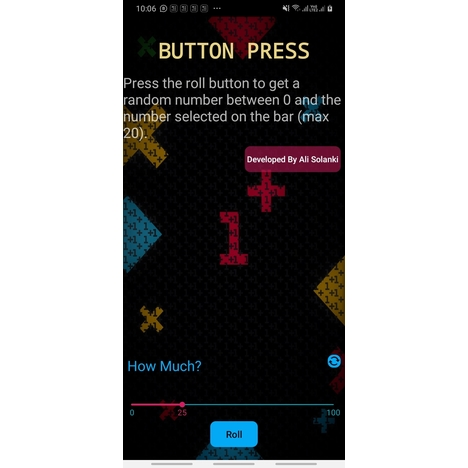
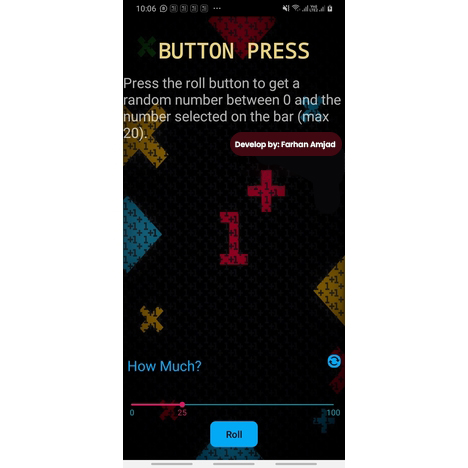
Portfolio

Changed region(s): [[0.4786, 0.2692, 0.7479, 0.3889]]

diff --git a/index.html b/index.html
@@ -14,36 +14,33 @@
     <title>Farhan Portfolio</title>
     <meta
       name="description"
-      content="Ali Solanki is a Developer cum YouTuber and is a B.Tech student at KJ Somaiya College Of Engineering"
+      content="Farhan is a Developer cum YouTuber and is a B.Tech student at CUST Engineering Student"
     />
-    <meta name="author" content="Mohd. Ali Solanki" />
+    <meta name="author" content="Farhan Amjad" />
 
     <meta
       name="keywords"
-      content="ali, solanki, ali solanki, mumbai, developer, web developer, android developer"
+      content="Farhan, Amjad, Farrooqi, Rawalpindi, developer, web developer, android developer"
     />
-    <meta name="subject" content="Ali Solanki Portfolio" />
-    <meta name="copyright" content="Ali Solanki" />
+    <meta name="subject" content="Farhan Portfolio" />
+    <meta name="copyright" content="Farhan" />
     <meta name="language" content="EN" />
     <meta name="robots" content="index, follow" />
     <meta name="revised" content="Thursday, December 12th, 2019, 1:04 am" />
-    <meta name="abstract" content="ali solanki" />
-    <meta name="topic" content="ali solanki portfolio" />
+    <meta name="abstract" content="Farhan" />
+    <meta name="topic" content="Farhan" />
     <meta
       name="summary"
-      content="This is Ali Solanki's Portfolio Website who is a Developer and a YouTuber."
+      content="This is Farhan Portfolio Website who is a Developer and a YouTuber."
     />
     <meta name="Classification" content="Business" />
-    <meta name="author" content="ali solanki, alisolanki123@gmail.com" />
-    <meta name="designer" content="ali solanki" />
-    <meta name="copyright" content="ali solanki" />
-    <meta name="reply-to" content="alisolanki123@gmail.com" />
-    <meta name="owner" content="ali solanki" />
-    <meta name="url" content="https://alisolanki.github.io/Portfolio/" />
-    <meta
-      name="identifier-URL"
-      content="https://alisolanki.github.io/Portfolio/"
-    />
+    <meta name="author" content="Farhan, farhanamjad986@gmail.com" />
+    <meta name="designer" content="Farhan" />
+    <meta name="copyright" content="Farhan" />
+    <meta name="reply-to" content="farhanamjad986@gmail.com" />
+    <meta name="owner" content="Farhan" />
+    <meta name="url" content="https://github.com/farhanamjad-max" />
+    <meta name="identifier-URL" content="https://github.com/farhanamjad-max" />
     <meta name="directory" content="submission" />
     <meta name="category" content="Business | Portfolio" />
     <meta name="coverage" content="Worldwide" />
@@ -129,7 +126,7 @@
       <div class="intro-content">
         <div class="row">
           <div class="col-twelve">
-            <h5>Hello, Everyone!.</h5>
+            <h5>Hello, Everyone!</h5>
             <h1>
               I<span style="color: #cc005f">'</span>m Farhan Amjad<span
                 style="color: #cc005f"
@@ -213,7 +210,7 @@
           <h2>Let me introduce myself.</h2>
 
           <div class="intro-info">
-            <img src="images/profile-pic.png" alt="Ali Solanki Picture" />
+            <img src="images/profile-pic.png" alt="Farhan Picture" />
 
             <p class="lead">
               "Lad with a <font color="#FF0077">million</font> dreams."
@@ -338,7 +335,7 @@
 
               <div class="timeline-content">
                 <h4>
-                  <a href="https://kjsce.somaiya.edu/"
+                  <a href="https://cust.edu.pk/"
                     >Capital University of Science & Technology, Islamabad</a
                   >
                 </h4>
@@ -348,6 +345,33 @@
                 </p>
               </div>
             </div>
+
+            <!-- /timeline-block -->
+
+            <div class="timeline-block">
+              <div class="timeline-ico">
+                <i class="fa fa-briefcase"></i>
+              </div>
+
+              <div class="timeline-header">
+                <h3>College</h3>
+                <p>2015 - 2017</p>
+              </div>
+
+              <div class="timeline-content">
+                <h4>
+                  <a
+                    href="https://www.pgc.edu/campus/punjab-college-ayub-park-campus-rawalpindi/"
+                    >Punjab Group of College Ayub Park Campus
+                  </a>
+                </h4>
+                <p>
+                  Completed my college through Federal Board Isalamabad at PGC
+                  Ayub Park Campus, Rawalpindi - Pakistan.
+                </p>
+              </div>
+            </div>
+
             <!-- /timeline-block -->
 
             <div class="timeline-block">
@@ -362,7 +386,7 @@
 
               <div class="timeline-content">
                 <h4>
-                  <a href="https://bit.ly/346hi4s">Fauji Foundation School</a>
+                  <a href="https://fauji.org.pk/">Fauji Foundation School</a>
                 </h4>
                 <p>
                   Completed my schooling through Federal Board Isalamabad at
@@ -648,7 +672,7 @@
               </div>
 
               <div class="link-box">
-                <a href="https://github.com/alisolanki/ButtonPress">Github</a>
+                <a href="https://github.com/farhanamjad-max">Github</a>
                 <a href="#" class="popup-modal-dismiss">Close</a>
               </div>
             </div>
@@ -886,7 +910,7 @@
           <h5>Where to find me</h5>
 
           <p>
-            Bharia Phase 7, Rawalpindi<br />
+            Bahria Phase 7, Rawalpindi<br />
             46000 Pakistan
           </p>
         </div>
@@ -912,7 +936,12 @@
           <h5>Call Me At</h5>
 
           <p>
-            Phone: Telegram (<a href="https://t.me/farhanamjad">farhanamjad</a>)
+            Phone: WhatsApp (<a
+              onMouseOver="this.style.color='#ff0077'"
+              onMouseOut="this.style.color='#6e6e6e'"
+              href="https://wa.link/7hbnum"
+              >+92 335 0519322</a
+            >)
           </p>
         </div>
       </div>

diff --git a/css/main.css b/css/main.css
@@ -78,7 +78,7 @@ body {
  */
 a,
 a:visited {
-  color: #000000;
+  color: #6e6e6e;
   -moz-transition: all 0.3s ease-in-out;
   -o-transition: all 0.3s ease-in-out;
   -webkit-transition: all 0.3s ease-in-out;
